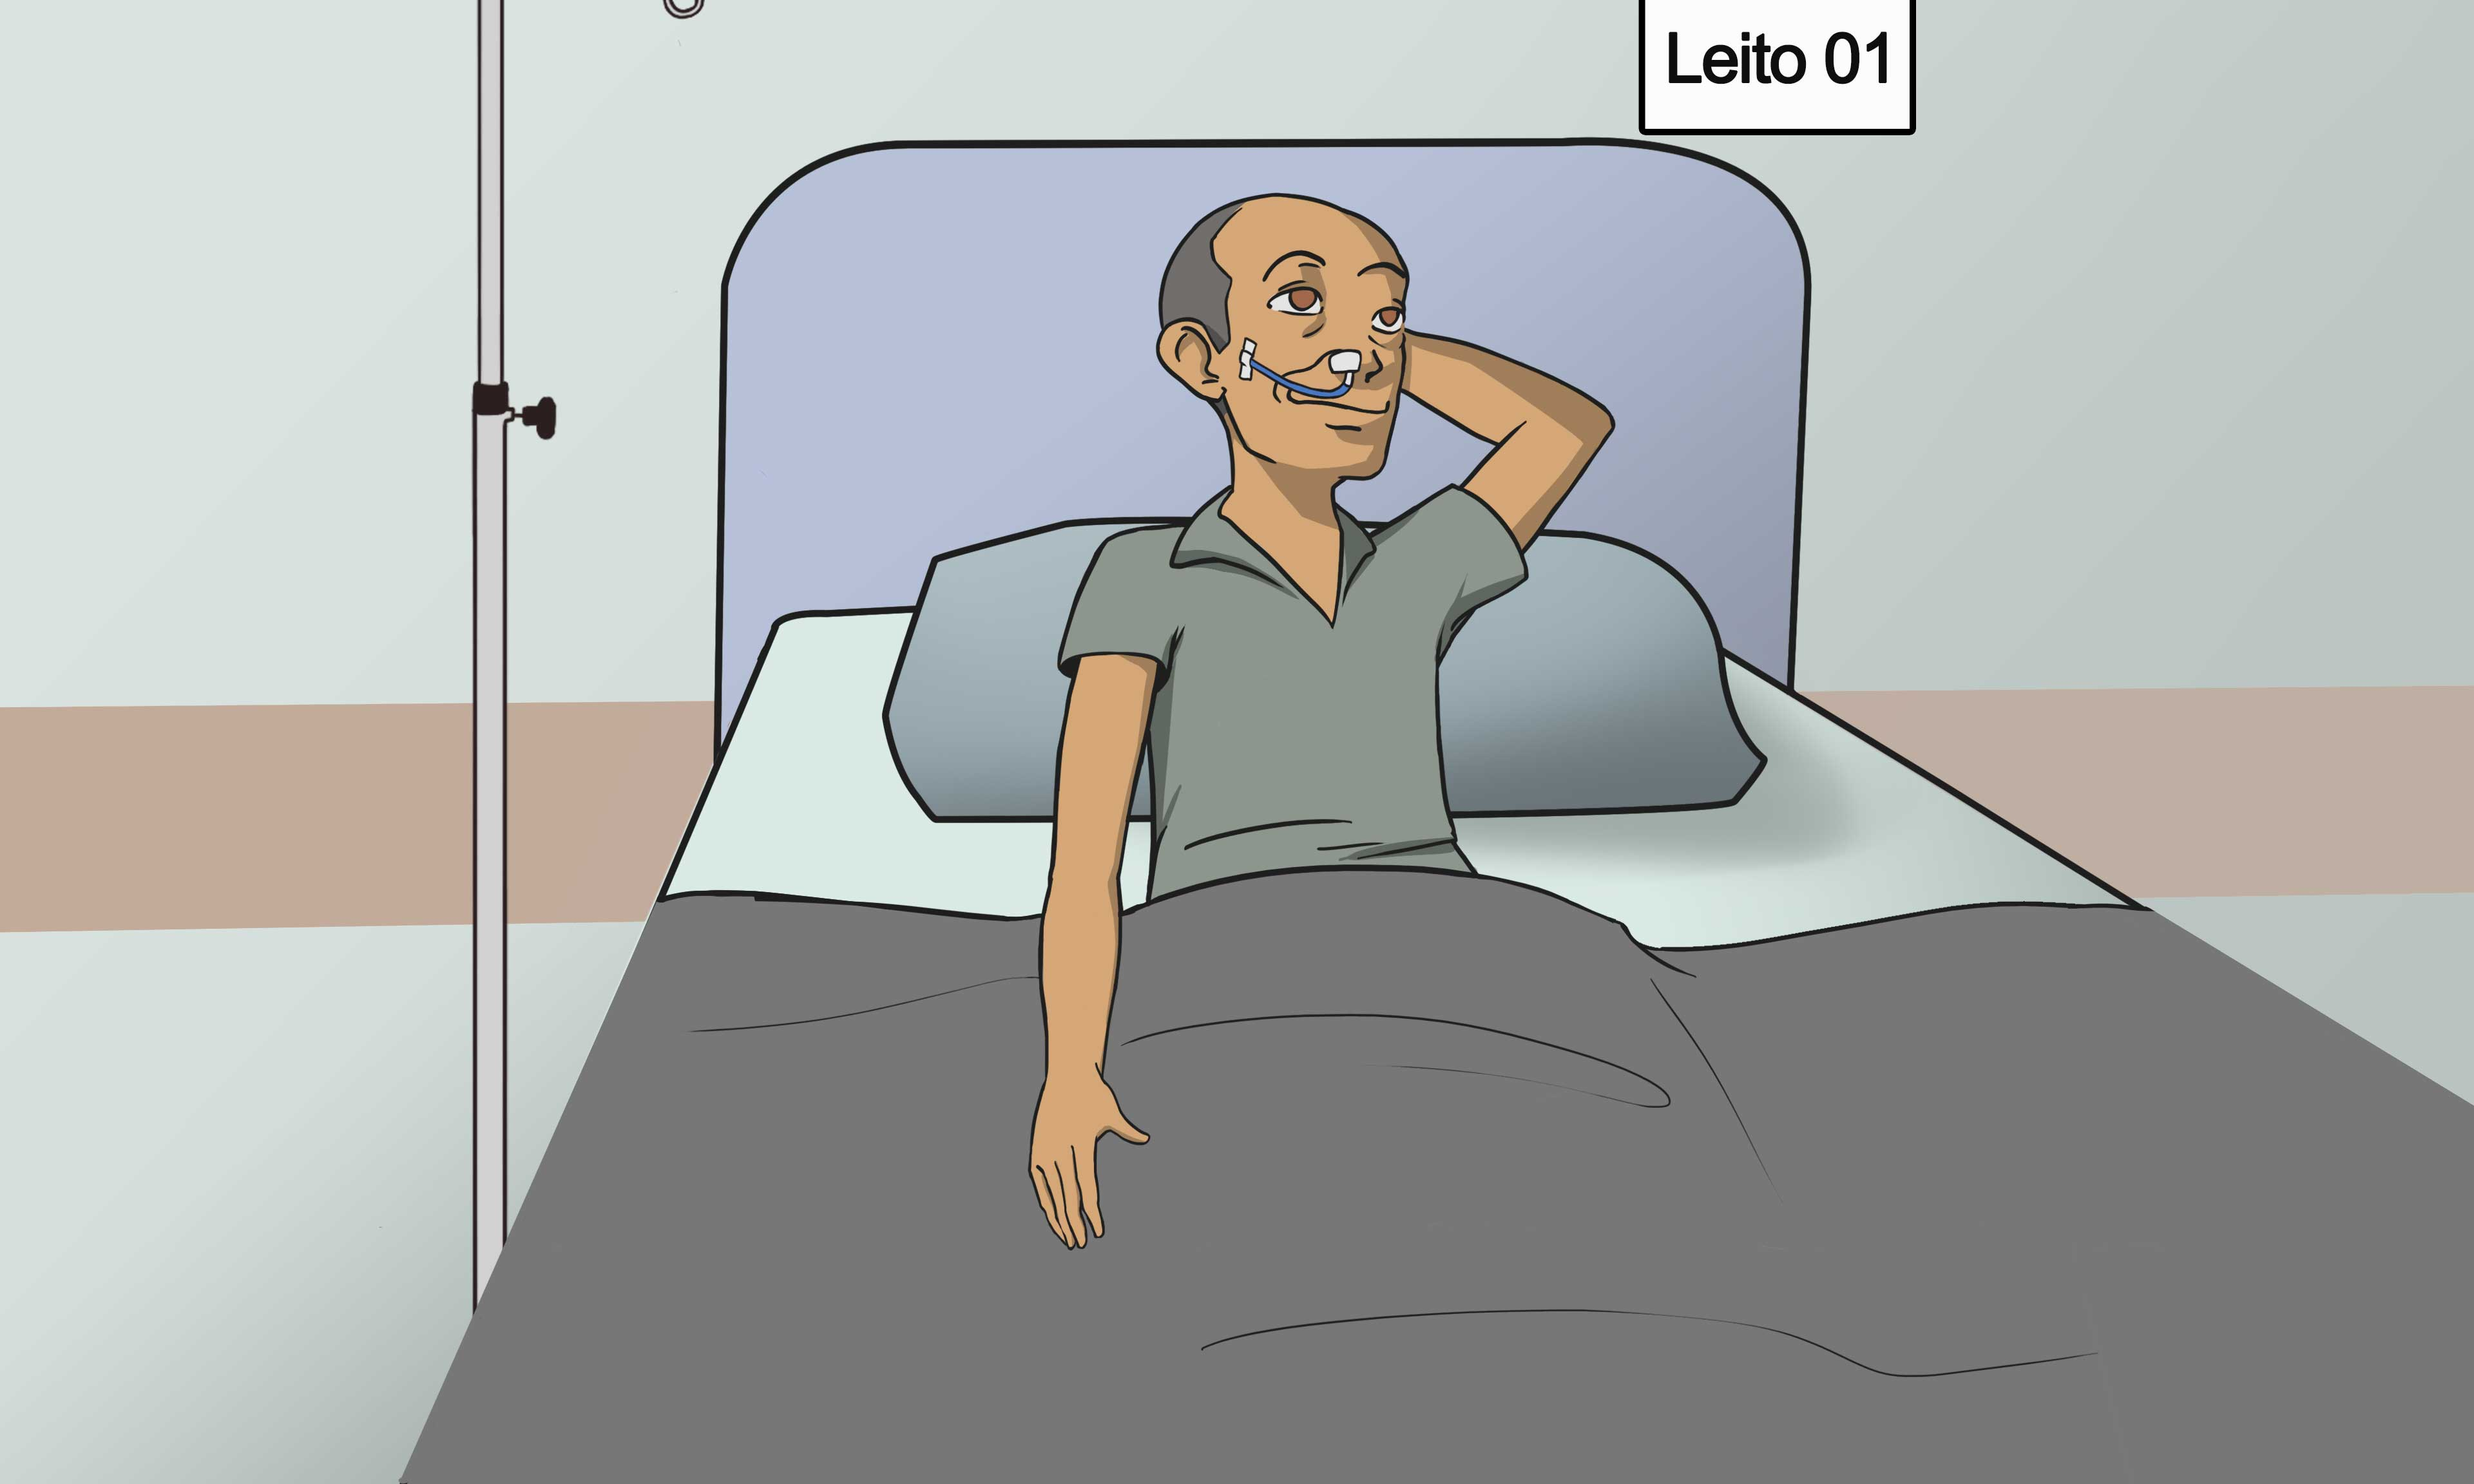
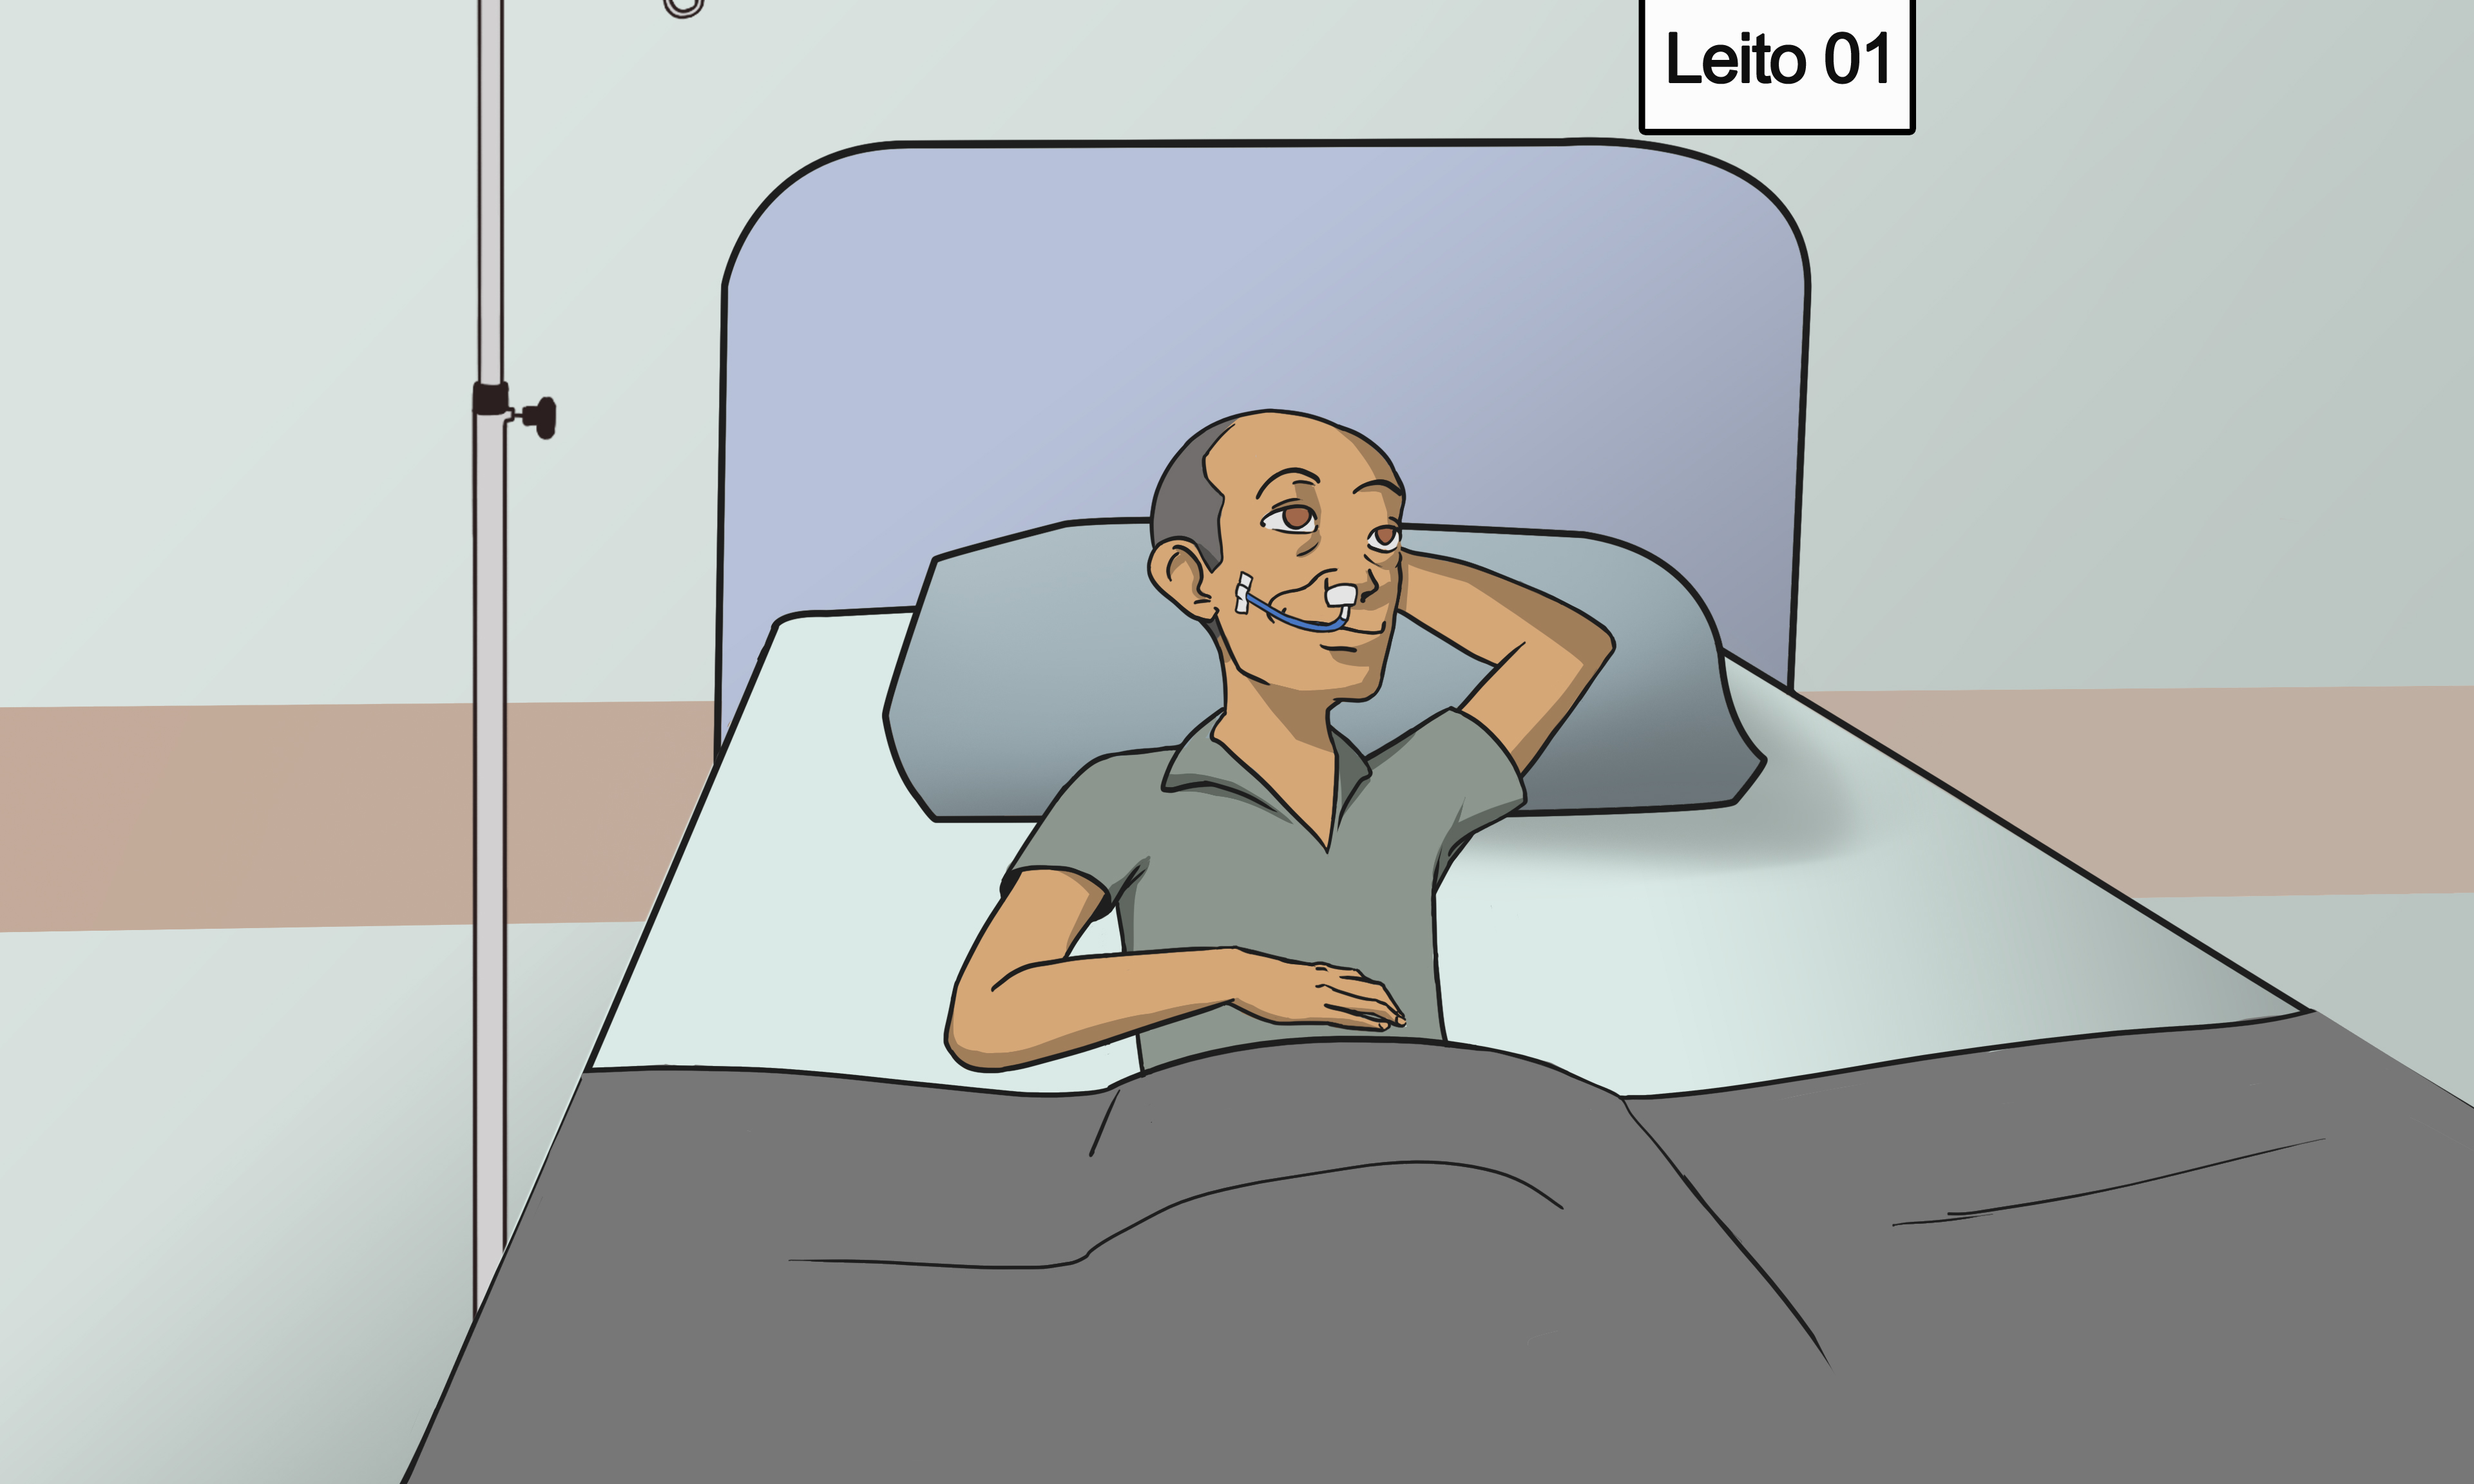
Fix io position

Changed region(s): [[0.2188, 0.125, 0.9375, 0.8438], [0.1562, 0.9375, 0.1875, 1.0], [0.7188, 0.875, 0.75, 0.9062]]

diff --git a/src/javascript/game/scripts/levels/fase7.js b/src/javascript/game/scripts/levels/fase7.js
@@ -789,7 +789,19 @@ define([ "levelsData", "Scene", "Action", "Level", "Dialog", "InteractiveObject"
         })
         .setVisibility( true )
         .setEnable( false ),
+      new InteractiveObject("io-pulseira_paciente2", "Checar pulseira do paciente")
+        .setCssClass("intObj-paciente_07-checar_pulseira2")
+        .onClick(function() {
 
+          core.flag("verificar_pulseira", true );
+
+          console.log("IO: pulseira_paciente");
+          core.openModalScene("Pulseira");
+          Pulseira.open();
+          core.openCommandBar();
+        })
+        .setVisibility( false )
+        .setEnable( true ),
 
       new InteractiveObject("io-conversar_paciente07", "Falar com o paciente")
         .setCssClass("intObj-conversar_paciente")
@@ -849,6 +861,8 @@ define([ "levelsData", "Scene", "Action", "Level", "Dialog", "InteractiveObject"
           if ( core.flag("score_elevar_cama") == false ) {
             core.registerScoreItem( Scores.elevarCama );
             core.changeSceneCssClassTo("scene-bedChar07d");
+            core.setInteractiveObjectVisible("io-pulseira_paciente", false );
+            core.setInteractiveObjectVisible("io-pulseira_paciente2", true );
           }
 
           core.flag("score_elevar_cama", true );

diff --git a/src/css/imageURLs.less b/src/css/imageURLs.less
@@ -148,6 +148,7 @@ This file is part of Cuidando Bem.
 @intObj-paciente_05-checar_pulseira: url(../images/interactiveObjects/pulseira05.png);
 @intObj-paciente_06-checar_pulseira: url(../images/interactiveObjects/pulseira06.png);
 @intObj-paciente_07-checar_pulseira: url(../images/interactiveObjects/pulseira07.png);
+@intObj-paciente_07-checar_pulseira2: url(../images/interactiveObjects/pulseira04.png);
 @intObj-paciente_08-checar_pulseira: url(../images/interactiveObjects/pulseira08.png);
 @intObj-paciente_09-checar_pulseira: url(../images/interactiveObjects/pulseira09.png);
 // imagem da pulseira 10 é igual a da pulseira 05 (mesmo paciente)

diff --git a/src/css/interactiveObjects/interactiveObjects.less b/src/css/interactiveObjects/interactiveObjects.less
@@ -372,6 +372,16 @@ div[role="log"]:not(#accessible_log) {
   height: 5.5%;
 }
 
+.intObj-paciente_07-checar_pulseira2 {
+  background-image: @intObj-paciente_07-checar_pulseira2;
+  background-size: contain;
+  background-repeat: no-repeat;
+  top: 69%;
+  left: 41.8%;
+  width: 3.5%;
+  height: 3.5%;
+}
+
 .intObj-paciente_08-checar_pulseira {
   background-image: @intObj-paciente_08-checar_pulseira;
   background-size: contain;
